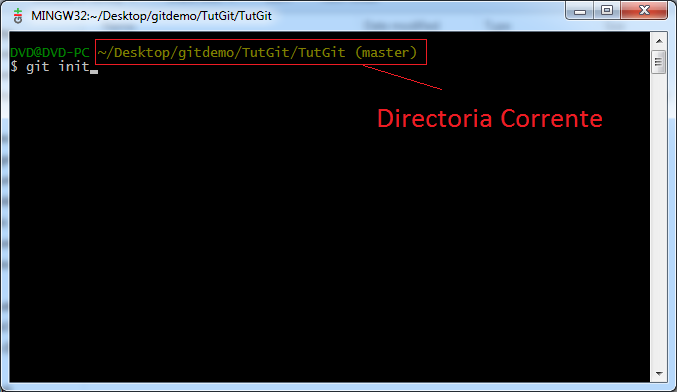
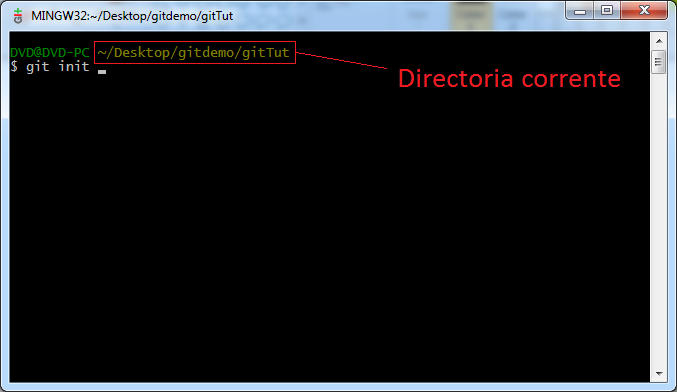
Adicionado git remote.
Alterada a imagem 1.

diff --git a/GitTutorial/usinggit.html b/GitTutorial/usinggit.html
@@ -69,7 +69,7 @@
 				 
 				<p>Caso o repositório local já se encontre ligado a um remoto basta fazer <span class="instruction">git push</span>, irá ser pedida a password da conta, e se tudo correr bem o push irá ser concluído. </p>
 				 
-				<p><span class="bold">Nota:</span> Se não se encontrar ligado deve-se indicar no comando para que repositório se irá fazer o push, isto também pode ser usado num repositório ligado para fazer o push num outro repositório (<span class="instruction">git push https://&lturl_do_repositorio&gt</span>).</p>
+				<p><span class="bold">Nota:</span> Se não se encontrar ligado deve-se indicar no comando para que repositório se irá fazer o push, isto também pode ser usado num repositório ligado para fazer o push num outro repositório (<span class="instruction">git push https://&lturl_do_repositorio&gt</span>). Para ligar o repositório local a um remoto, para evitar tar sempre a usar no comando <span class="instruction">git push</span>, deve-se usar o comando <span class="instruction">git remote &lturl_do_repositorio&gt</span>, para fazer a ligação.</p>
 				 
 				<img src="images/img3.png" class="center"/>
 				 
